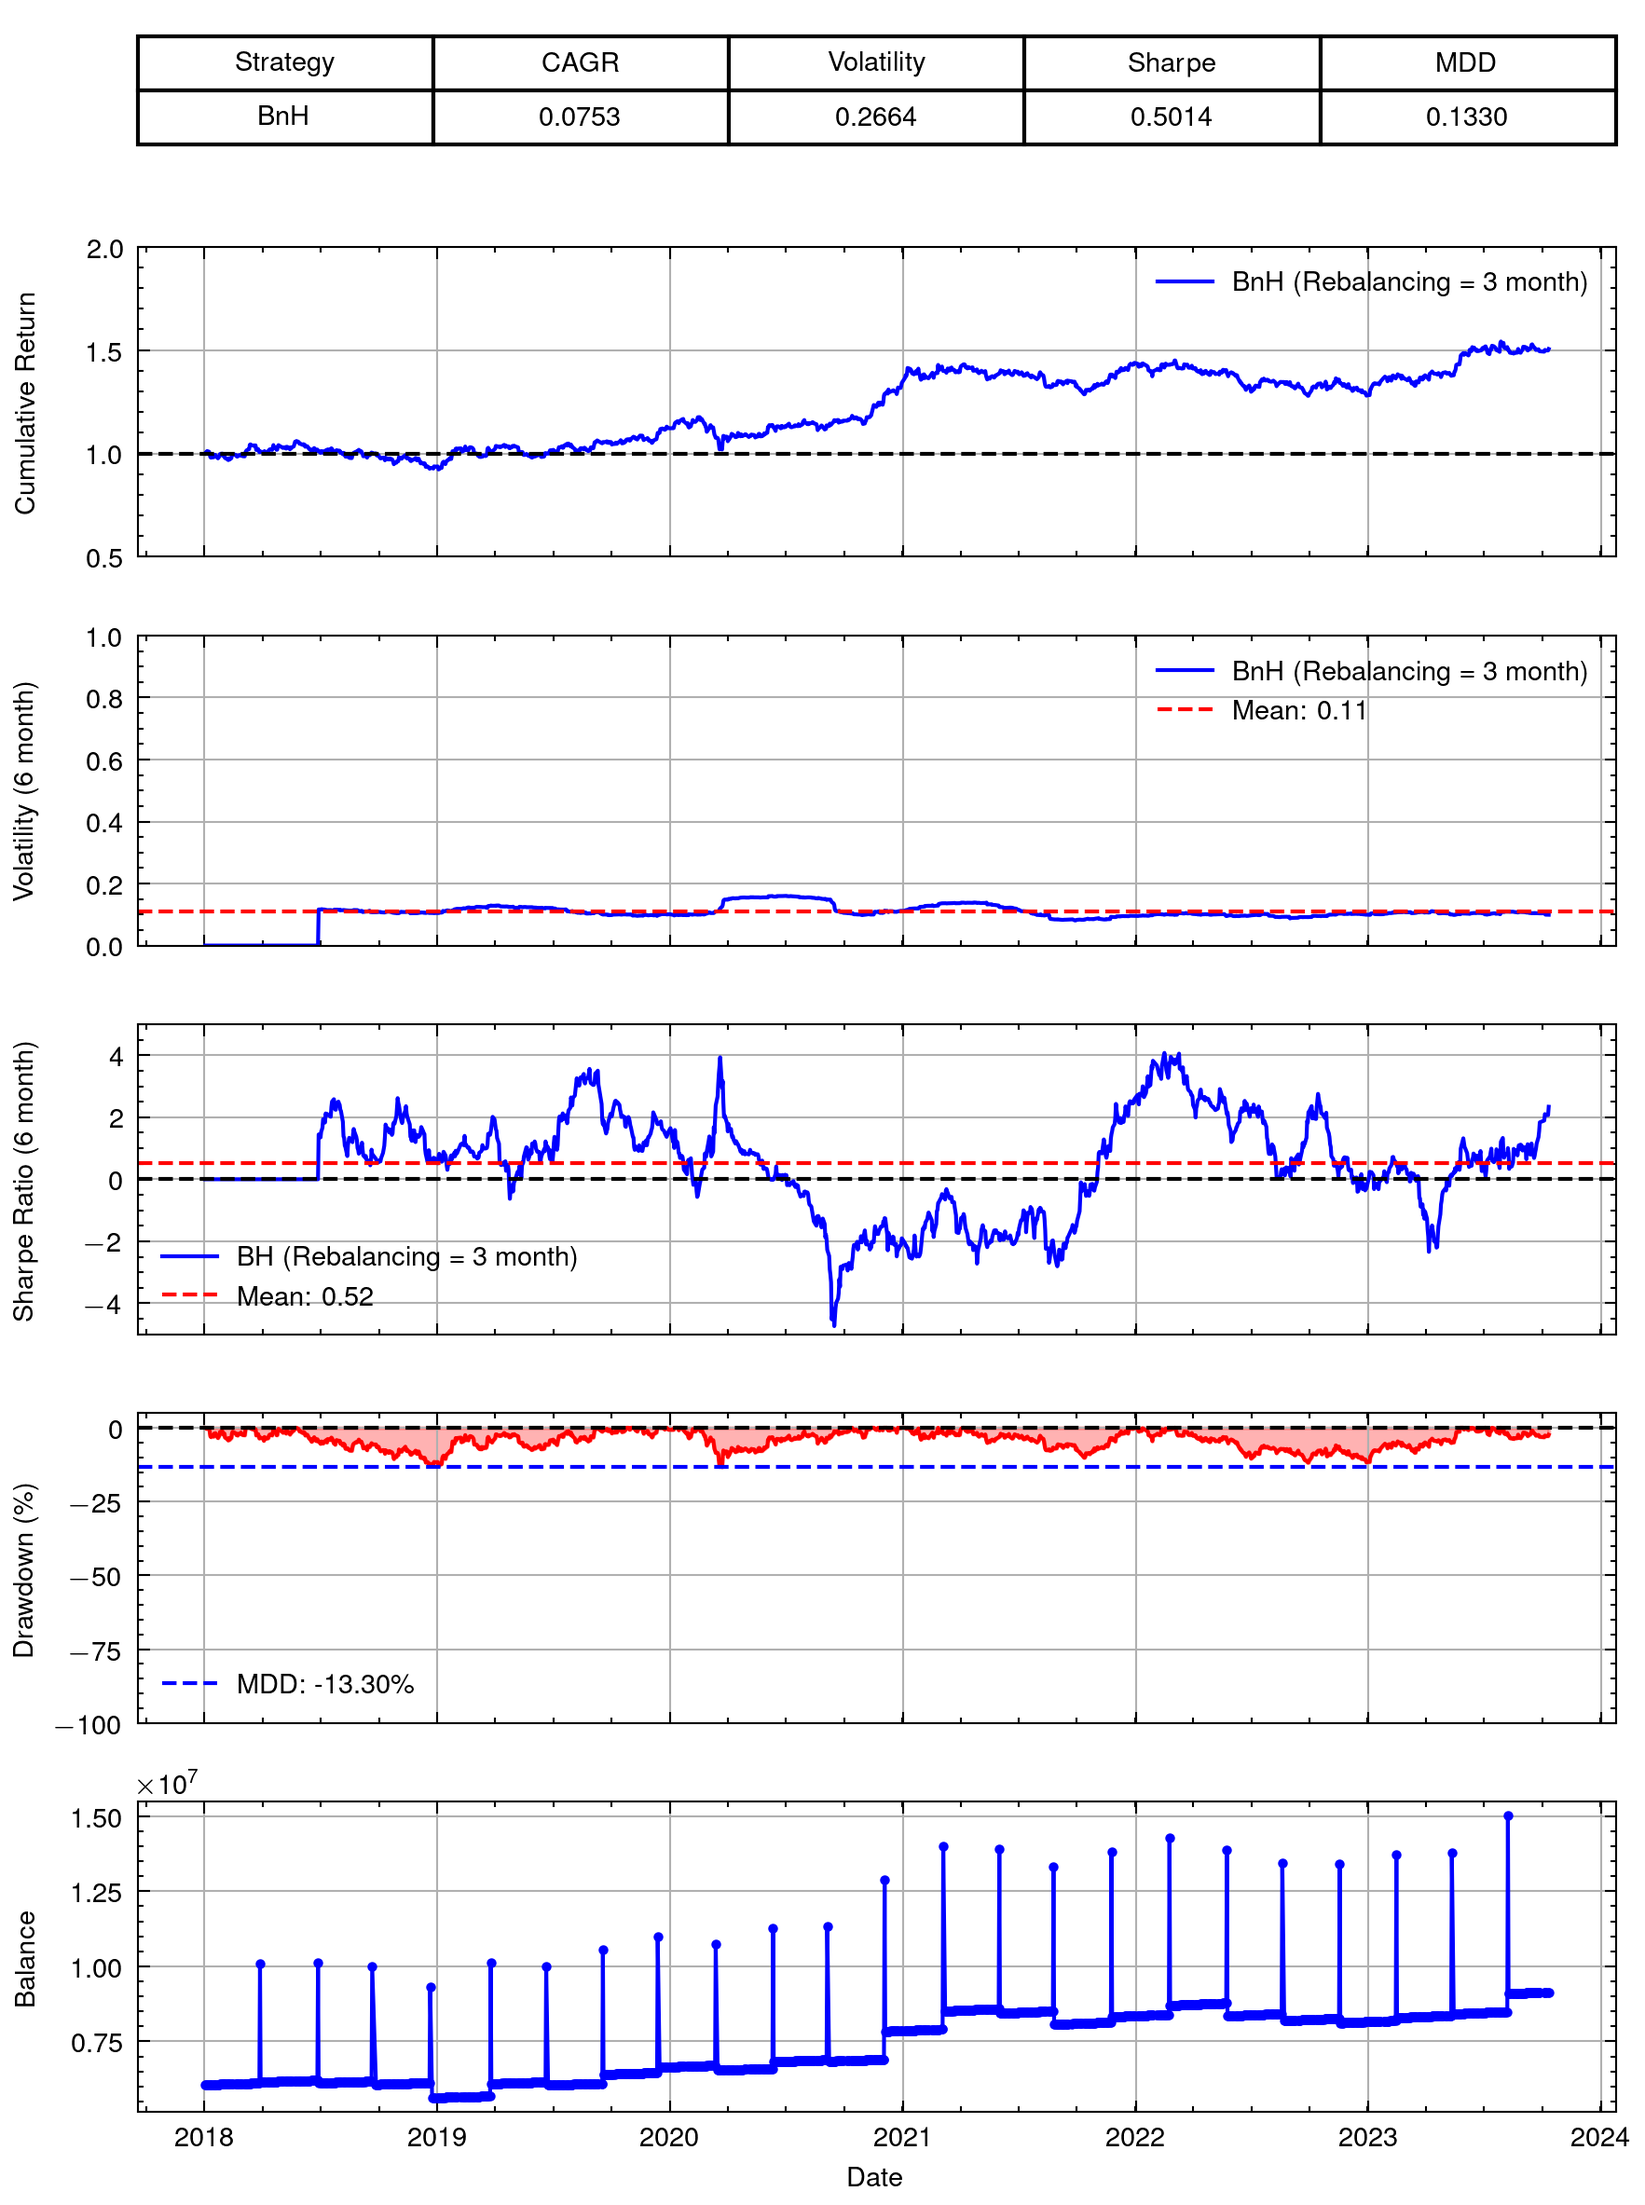
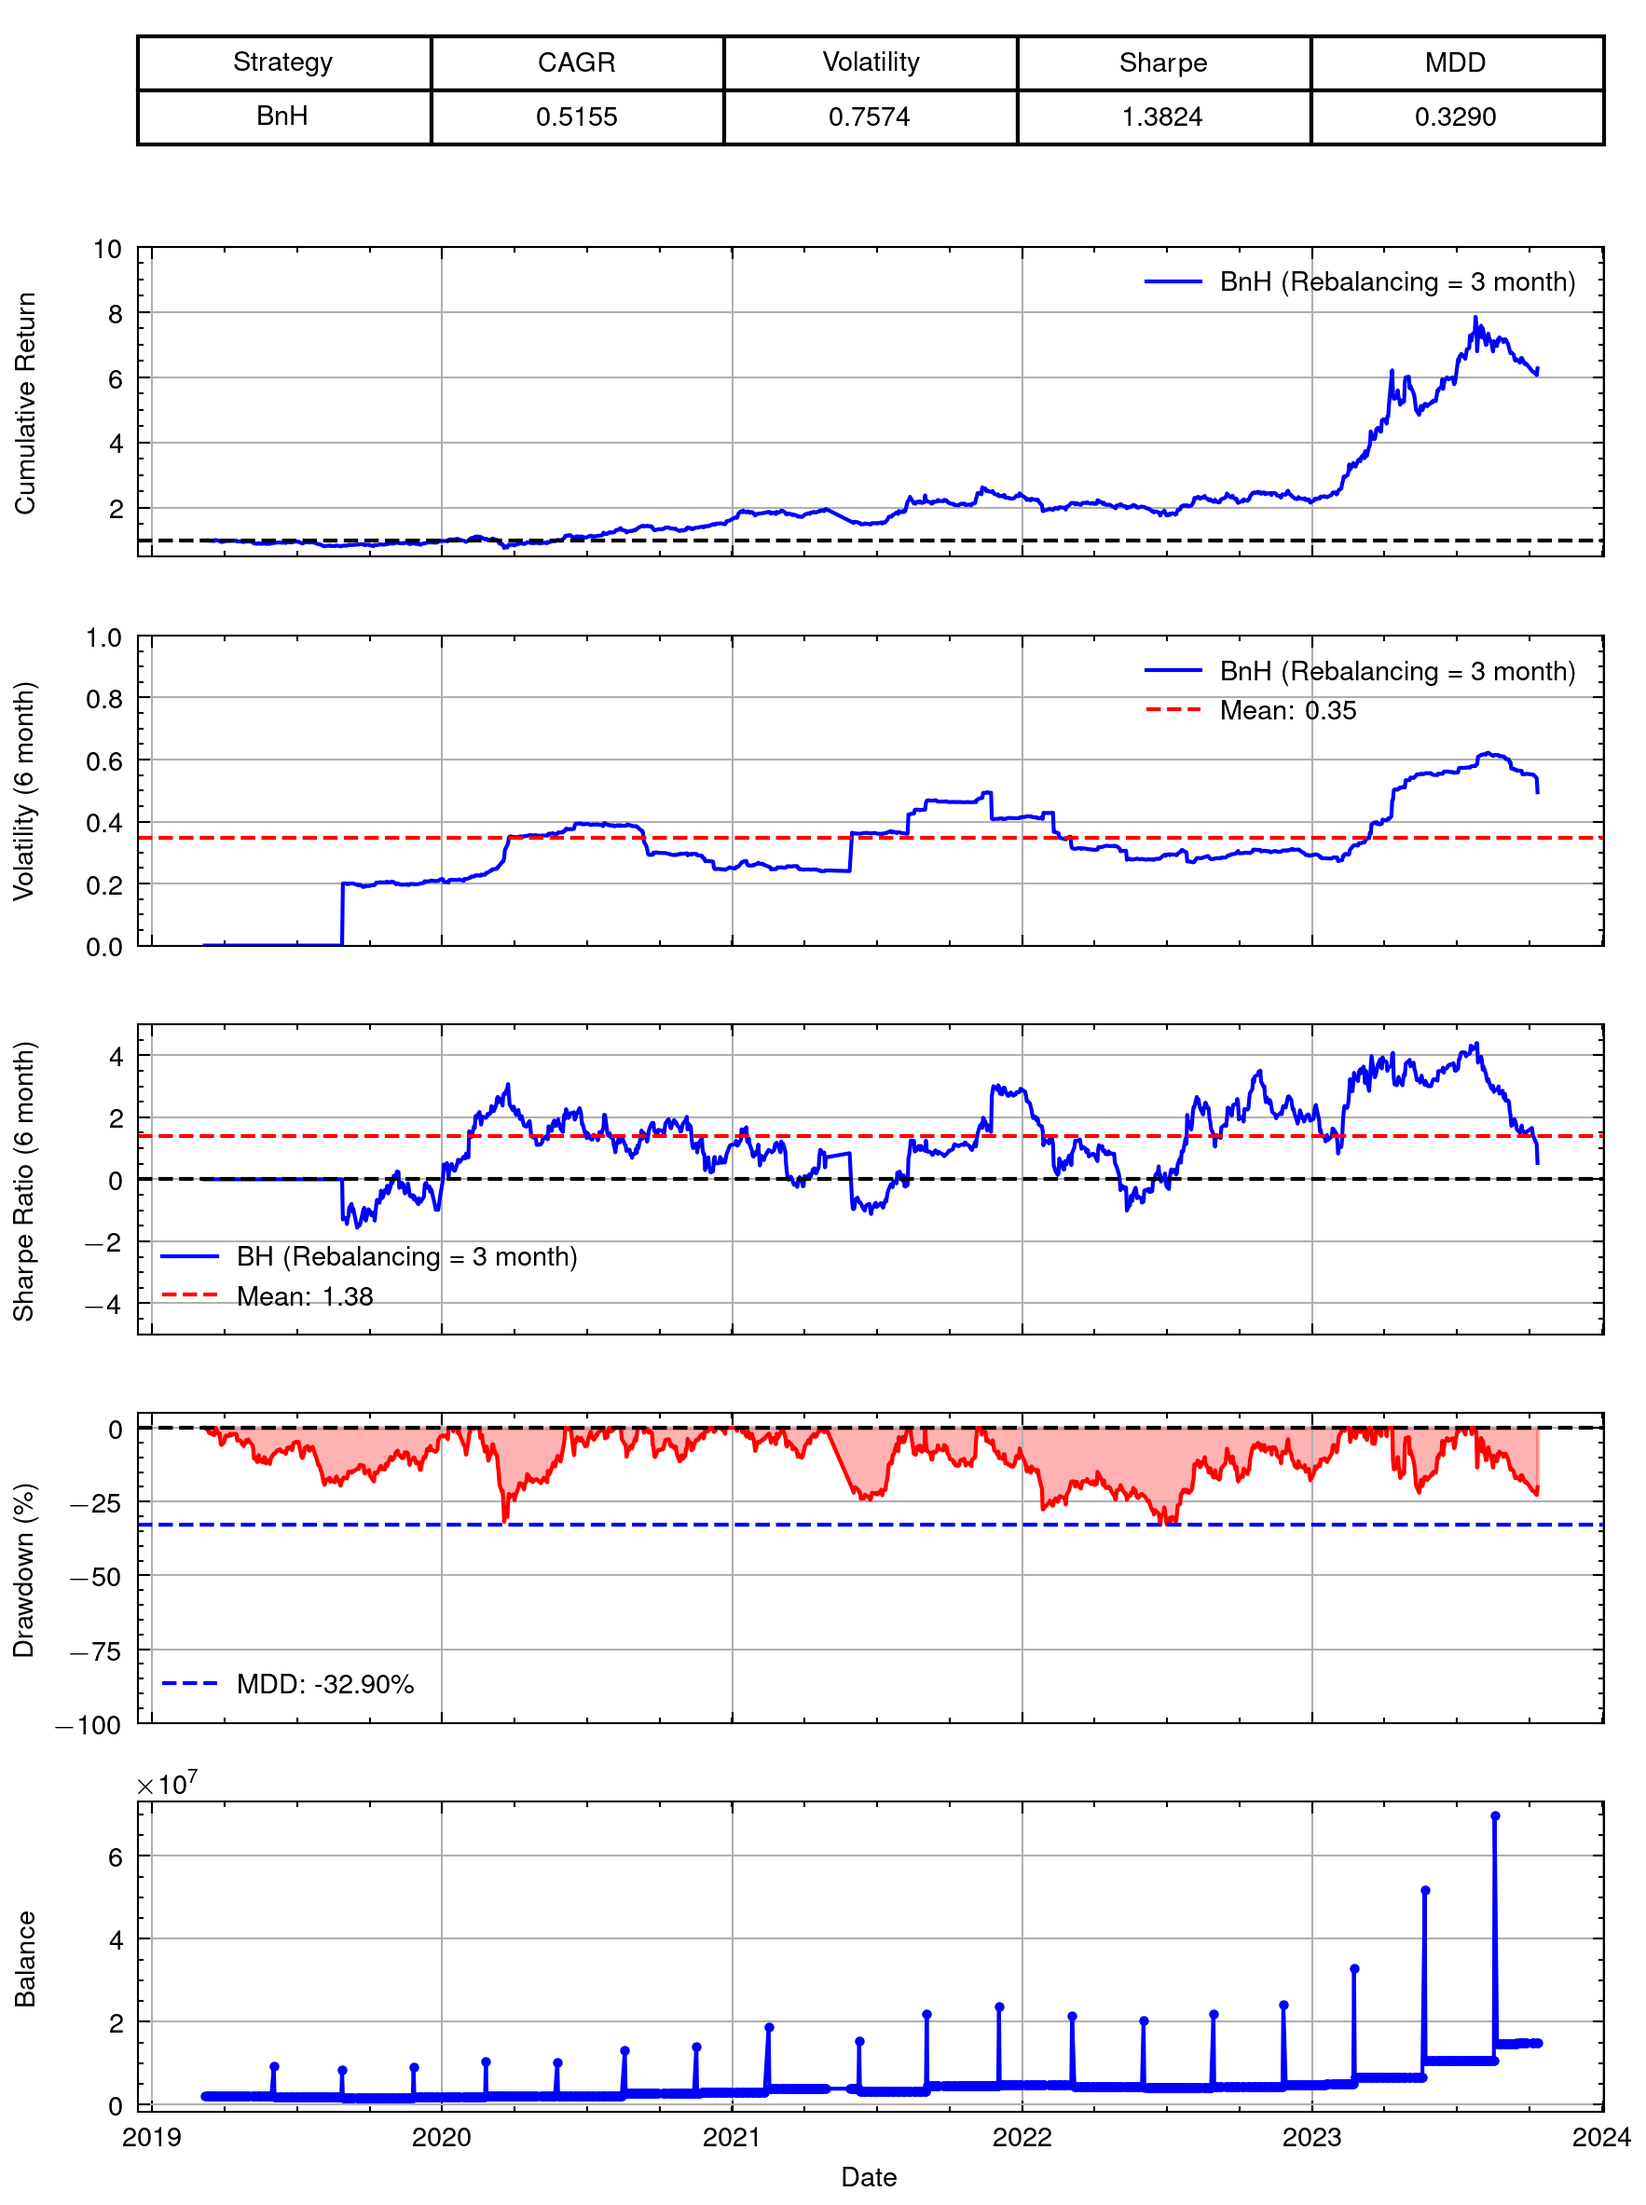
Test for Ecopro (outlier)

diff --git a/src/bin/trade_test.rs b/src/bin/trade_test.rs
@@ -25,7 +25,7 @@ const TESTNUM: usize = 7;
 async fn main() -> Result<(), Box<dyn std::error::Error>> {
     // let symbols = vec!["005930.KS".to_string()];
     // let symbols = vec!["000660.KS".to_string()];
-    let symbols = vec!["005930.KS".to_string(), "000660.KS".to_string()];
+    let symbols = vec!["005930.KS".to_string(), "086520.KQ".to_string()];
     //let symbols = vec![
     //    "005930.KS",    // Samsung Electronics// //
     //    "051910.KS",    // LG Chem
@@ -39,7 +39,7 @@ async fn main() -> Result<(), Box<dyn std::error::Error>> {
     //    "003410.KS",    // SsangYong C&E
     //];
     let symbols = symbols.iter().map(|x| x.to_string()).collect::<Vec<String>>();
-    let from = "2018-01-01 00:00:00 +09";
+    let from = "2019-03-08 00:00:00 +09";
     let to = "2023-10-12 00:00:00 +09";
     let init_balance = 1000_0000f64;
     let interest_rate = 0.04f64;
@@ -50,7 +50,7 @@ async fn main() -> Result<(), Box<dyn std::error::Error>> {
     };
 
     // let weight_vec = vec![1f64];
-    let weight_vec = vec![0.2f64, 0.2];
+    let weight_vec = vec![0.4f64, 0.4];
     // let weight_vec = vec![0.4f64, 0.4];
     // let weight_vec = vec![0.1f64; symbols.len()];
     //let weight_vec = vec![
